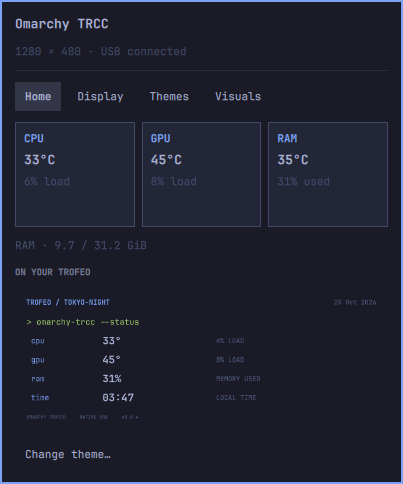
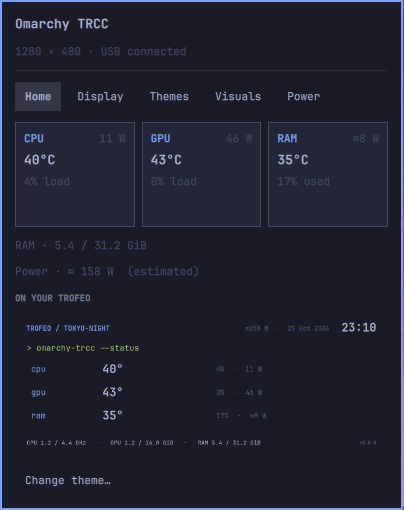
docs: new panel screenshots (Home, Power tab) and feature list

diff --git a/README.es.md b/README.es.md
@@ -10,11 +10,12 @@ Plugin de Omarchy para la **Thermalright Trofeo Vision 1280×480**. Motor USB pr
 
 - Botón **🖥 TR** en la barra; panel con los colores, fuentes, bordes y espaciado del tema activo de Omarchy.
 - Idioma automático según `LC_ALL`, `LC_MESSAGES` y `LANG`: inglés/español, con inglés como respaldo para otros idiomas. Panel, mensajes y etiquetas nativas comparten el catálogo; los textos de tus propios temas se conservan.
-- Inicio con temperatura CPU/GPU/RAM (si hay sensores), carga, memoria usada y vista de la pantalla; actualización cada dos segundos mientras el panel está abierto.
-- Pestaña Temas con lista compacta y una sola vista previa desplegable; ver un tema no lo aplica.
+- Inicio con temperatura CPU/GPU/RAM (si hay sensores), carga, vatios, memoria usada y vista de la pantalla; actualización cada dos segundos mientras el panel está abierto.
+- Pestaña Temas con lista compacta y una sola vista previa desplegable que sigue los datos en vivo; ver un tema no lo aplica.
+- Pestaña Consumo en PCs de escritorio sin fuente con sensor: estima el resto del PC (placa, RAM, discos, ventiladores, refrigeración, RGB) y la pérdida de la fuente.
 - Importación de imágenes 1280×480 y temas JSON con métricas; puedes quitar las copias importadas sin borrar tus originales.
 - Cuatro diseños nativos: **Focus, Terminal, Rings y Dots**. La pantalla también sigue automáticamente la paleta del sistema.
-- Temperatura/carga CPU y GPU, uso de RAM, fecha y reloj. Un sensor no disponible se muestra como `—`.
+- Temperatura de CPU, GPU y RAM con carga y vatios, frecuencia de la CPU, VRAM y RAM en uso, consumo total, fecha y reloj. Un sensor no disponible se muestra como `—`.
 - Brillo por software, giro de 0/90/180/270°, métricas sobre los visuales y modo juego (vuelve al panel de métricas con CPU >75%).
 - Cuatro visuales propios: **Bars, Wave, Rings y Particles**, analizados desde la salida de audio del sistema. No usa el micrófono ni guarda audio.
 - Seguimiento opcional del acento, activado inicialmente; cuando se desactiva se conserva un color fijo.
@@ -31,6 +32,8 @@ El consumo en vatios se lee sin root y sin cambiar permisos. Para el total de la
 Los diseños Focus, Terminal, Rings y Dots comparten un mismo diseño: la hora arriba con el consumo total y la fecha, y debajo CPU, GPU y RAM. Cada fila muestra la temperatura como valor y, a su lado, la carga y los vatios (RAM: uso). Sin sensor de RAM, la RAM muestra su uso. La línea de abajo muestra la frecuencia de la CPU (media de los núcleos / máxima), la VRAM de la GPU y la RAM en uso frente a sus totales.
 
 En un PC de escritorio sin fuente con sensor ni batería, el panel añade la pestaña **Consumo** para estimar el resto del PC. Detecta los módulos de RAM (sensores DDR4/DDR5), los NVMe y los discos SATA internos; tú marcas el tamaño de la placa base, los ventiladores sin RGB y con RGB (cada uno en uno solo), la refrigeración por aire o líquida, las tiras RGB y la certificación 80 PLUS de la fuente. Con "≈ Incluir en el total" activado, el total pasa a `≈ X W`: CPU + GPU más esas piezas, dividido entre la eficiencia de la fuente (consumo en el enchufe); la pestaña desglosa cuánto aporta cada pieza. La fila de RAM muestra siempre los vatios estimados de sus módulos. Son valores típicos (DDR5 4 W, DDR4 3 W, NVMe 4 W, SSD SATA 2 W, HDD 6 W, ventilador 1,5 W, con RGB 3 W, bomba 5–7 W, tira RGB 4 W, placa 20–40 W), no mediciones: ningún sensor del PC los da.
+
+![Pestaña Consumo estimando el resto del PC](preview-power.png)
 
 Esta versión dibuja diseños y visuales propios; no importa temas `.dc`, shaders KarmaViz ni presets de TRCC.
 

diff --git a/README.md b/README.md
@@ -14,17 +14,19 @@ C++/Qt USB engine: **TRCC does not need to be installed or run**.
 - Automatic language from `LC_ALL`, `LC_MESSAGES` and `LANG`: English/Spanish,
   with English as the fallback for other languages. Panel, messages and native
   labels share one catalog; the text in your own themes is kept as is.
-- Home view with CPU/GPU/RAM temperature (when sensors exist), load, used memory
-  and a preview of the screen; refreshed every two seconds while the panel is
-  open.
-- Themes tab with a compact list and a single expandable preview; previewing a
-  theme does not apply it.
+- Home view with CPU/GPU/RAM temperature (when sensors exist), load, watts, used
+  memory and a preview of the screen; refreshed every two seconds while the
+  panel is open.
+- Themes tab with a compact list and a single expandable preview that follows
+  live values; previewing a theme does not apply it.
+- Power tab on desktops without a PSU sensor: estimates the rest of the PC
+  (board, RAM, drives, fans, cooling, RGB) and the PSU loss.
 - Import 1280×480 images and JSON themes with metrics; you can remove the
   imported copies without deleting your originals.
 - Four native layouts: **Focus, Terminal, Rings and Dots**. The screen also
   follows the system palette automatically.
-- CPU and GPU temperature/load, RAM usage, date and clock. A missing sensor is
-  shown as `—`.
+- CPU, GPU and RAM temperature with load and watts, CPU clock, VRAM and RAM in
+  use, total power, date and clock. A missing sensor is shown as `—`.
 - Software brightness, 0/90/180/270° rotation, metrics over the visuals and
   game mode (goes back to the metrics panel when CPU >75%).
 - Four built-in audio visuals: **Bars, Wave, Rings and Particles**, analyzed
@@ -77,6 +79,8 @@ divided by the PSU's efficiency (wall power); the tab lists each part's share. T
 modules' estimated watts. These are typical values (DDR5 4 W, DDR4 3 W, NVMe
 4 W, SATA SSD 2 W, HDD 6 W, fan 1.5 W, RGB fan 3 W, pump 5–7 W, RGB strip 4 W, board
 20–40 W), not measurements: no PC sensor reports them.
+
+![Power tab estimating the rest of the PC](preview-power.png)
 
 This version draws its own layouts and visuals; it does not import TRCC `.dc`
 themes, KarmaViz shaders or presets.
